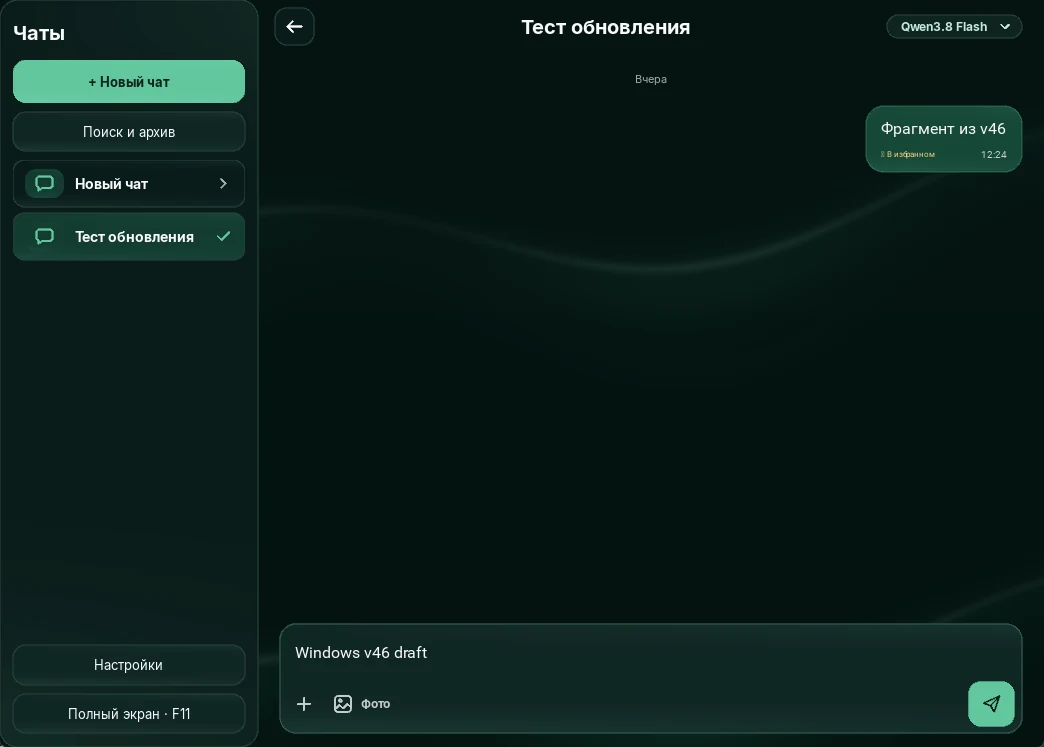
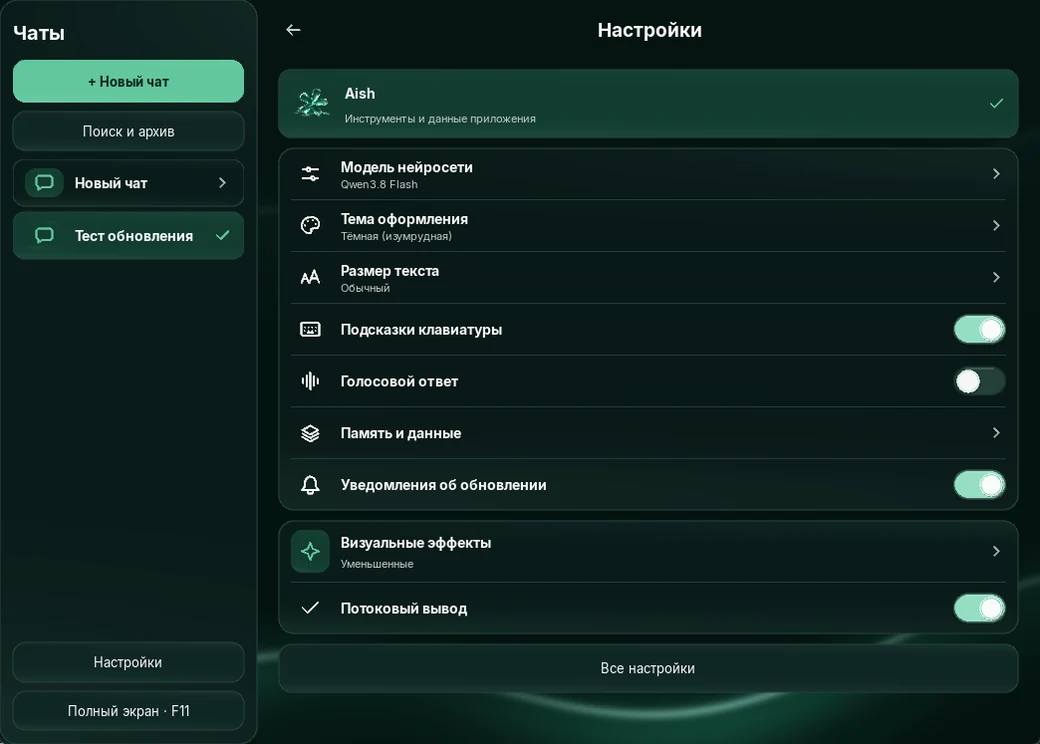
Show the verified v52 packages as a preview on the download page

diff --git a/download.html b/download.html
@@ -4,10 +4,10 @@
   <meta charset="utf-8">
   <meta name="viewport" content="width=device-width, initial-scale=1">
   <meta name="theme-color" content="#071816">
-  <meta name="description" content="Скачать Aish v52 для Android и Windows. Нефритовая тема, история диалогов, чат с фото и генерация изображений.">
+  <meta name="description" content="Скачать Aish для Android и Windows. Стабильная v51 и предварительная v52 с обновлёнными настройками и историей.">
   <title>Скачать Aish для Android и Windows</title>
   <link rel="stylesheet" href="./aish-v5.css">
-  <link rel="stylesheet" href="./downloads.css?v=4">
+  <link rel="stylesheet" href="./downloads.css?v=5">
 </head>
 <body class="downloads">
   <header class="downloads-header">
@@ -18,7 +18,7 @@
     <section class="downloads-hero" aria-labelledby="downloads-title">
       <div class="download-art" aria-hidden="true"><div class="hero-art"></div></div>
       <div class="downloads-copy">
-        <span class="release-version">Версия 51 · Android и Windows</span>
+        <span class="release-version">Стабильная версия 51 · Android и Windows</span>
         <h1 id="downloads-title">Скачать Aish</h1>
         <p>ИИ-чат в нефритовой теме. Прикрепляй фото и документы, создавай изображения и возвращайся к сохранённым диалогам.</p>
       </div>
@@ -30,7 +30,7 @@
         </div>
         <h2>Android</h2>
         <p>Android 7.0 и новее · ARM64 и ARMv7</p>
-        <a class="platform-download" href="https://github.com/awayRu/Aish/releases/download/v52/Aish-v52-Android.apk">
+        <a class="platform-download" href="https://github.com/awayRu/Aish/releases/download/v51/Aish-v51-Android.apk">
           Скачать APK <span aria-hidden="true">↓</span>
         </a>
       </section>
@@ -40,19 +40,28 @@
         </div>
         <h2>Windows</h2>
         <p>Windows 10 и 11 · x64 · Без установки</p>
-        <a class="platform-download" href="https://github.com/awayRu/Aish/releases/download/v52/Aish-v52-Windows-x64.exe">
+        <a class="platform-download" href="https://github.com/awayRu/Aish/releases/download/v51/Aish-v51-Windows-x64.exe">
           Скачать EXE <span aria-hidden="true">↓</span>
         </a>
       </section>
     </div>
+    <section class="release-preview" aria-labelledby="preview-title">
+      <h2 id="preview-title">Предварительная версия 52</h2>
+      <p>Обновлены панель диалога, поле ввода, значки настроек и поиск по истории.</p>
+      <div class="preview-links">
+        <a class="platform-download" href="https://github.com/awayRu/Aish/releases/download/v52/Aish-v52-Android.apk">APK v52</a>
+        <a class="platform-download" href="https://github.com/awayRu/Aish/releases/download/v52/Aish-v52-Windows-x64.exe">Windows EXE v52</a>
+        <a class="browser-link" href="https://github.com/awayRu/Aish/releases/tag/v52">Что нового в v52 <span aria-hidden="true">↗</span></a>
+      </div>
+    </section>
     <section class="release-screens" aria-labelledby="release-screens-title">
       <h2 id="release-screens-title">Интерфейс Aish v52</h2>
       <div class="release-gallery">
         <figure><img src="./screens/v52-android.webp" alt="Главный экран Aish на Android" loading="lazy"><figcaption>Android</figcaption></figure>
-        <figure><img src="./screens/v52-windows.webp" alt="Диалог и боковая панель Aish для Windows" loading="lazy"><figcaption>Windows</figcaption></figure>
+        <figure><img src="./screens/v52-windows.webp" alt="Настройки и боковая панель Aish для Windows" loading="lazy"><figcaption>Windows</figcaption></figure>
       </div>
     </section>
-    <footer class="downloads-footer"><a href="https://github.com/awayRu/Aish/releases/tag/v52">Релиз на GitHub <span aria-hidden="true">↗</span></a></footer>
+    <footer class="downloads-footer"><a href="https://github.com/awayRu/Aish/releases/tag/v51">Стабильная версия на GitHub <span aria-hidden="true">↗</span></a></footer>
   </main>
 </body>
 </html>

diff --git a/downloads.css b/downloads.css
@@ -99,6 +99,10 @@
 .platform-download span { font-size: 1.2rem; line-height: 1 }
 .downloads-footer { padding: 1.35rem 0 2rem; color: var(--muted); font-size: .9rem }
 .downloads-footer a { text-decoration: none }
+.release-preview { margin-top: 1rem; padding: clamp(1.25rem, 3vw, 1.9rem); border: 1px solid #365652; border-radius: 1.4rem; background: #122729 }
+.release-preview h2 { margin-top: 0 }
+.release-preview p { color: var(--muted); line-height: 1.45 }
+.preview-links { display: flex; flex-wrap: wrap; align-items: center; gap: .75rem }
 .release-screens { margin-top: 2.5rem }
 .release-screens h2 { margin-bottom: 1rem }
 .release-gallery { display: grid; grid-template-columns: minmax(0, 1fr) minmax(0, 2fr); gap: 1rem }
